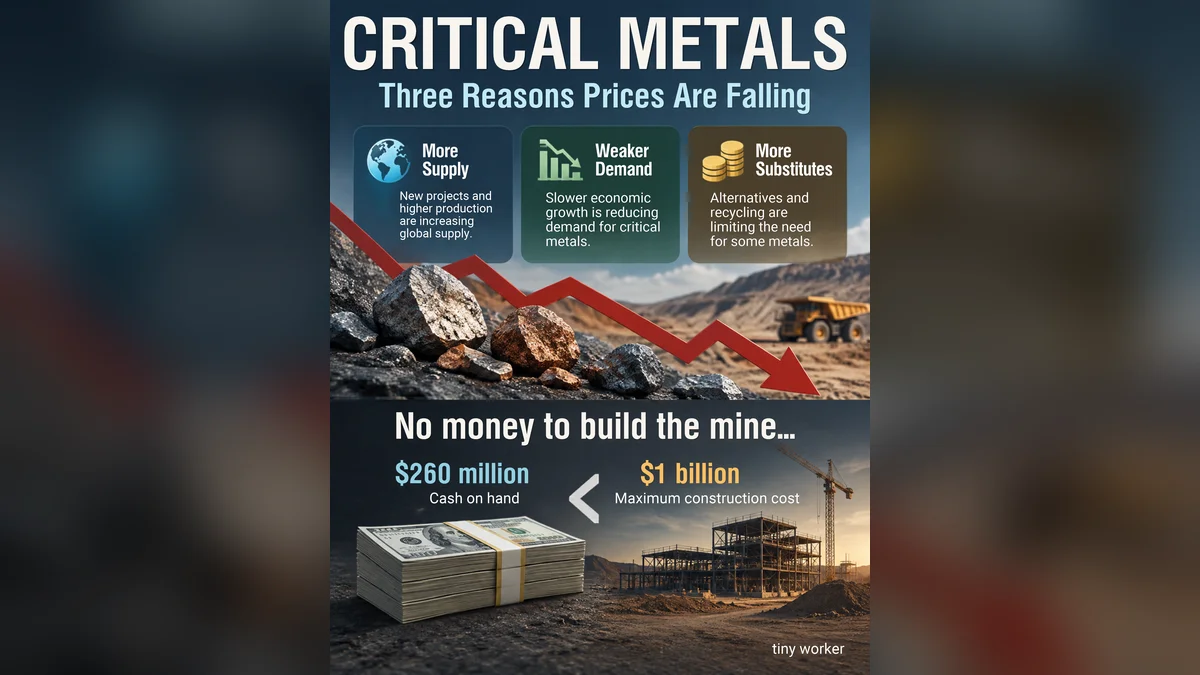
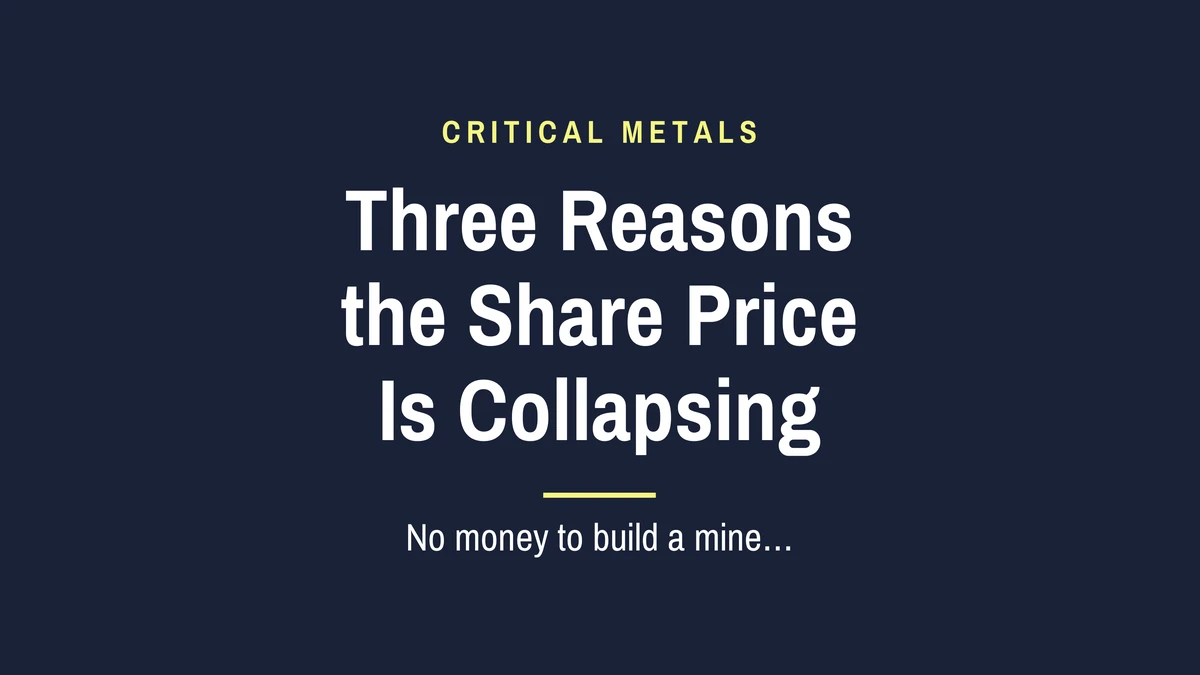
CRML post: new thumbnail from author's design; drop tall infographic
Claude-Session: https://claude.ai/code/session_0173GRgG8dArMiVJGVaP1HcF

diff --git a/src/content/posts/critical-metals-crml-stock-drop.md b/src/content/posts/critical-metals-crml-stock-drop.md
@@ -19,11 +19,6 @@ faq:
     a: "No. Only about 15% is covered by a signed, binding offtake contract. The rest is in non-binding agreements, which are not legally enforceable."
 ---
 
-<figure>
-  <img src="/images/posts/critical-metals-crml-stock-drop/critical-metals-no-money-to-build-the-mine.webp" alt="Critical Metals infographic: no money to build the mine, with about $260 million of cash on hand versus a maximum construction cost of $1 billion" width="1200" height="1500" />
-  <figcaption>Critical Metals has about $260 million in cash against a mine that could cost up to $1 billion to build.</figcaption>
-</figure>
-
 ## Quick answer
 
 Critical Metals (CRML) stock has fallen for three reasons: **(1)** its auditor doubts the company can keep operating for another year, **(2)** up to about **100 million shares** sold to private investors can hit the market whenever the price bounces, and **(3)** the merger with European Lithium grew the share count by about **32%**. All three come back to one problem: **the company doesn't yet have the money to build its Tanbreez rare earth mine in Greenland.**
